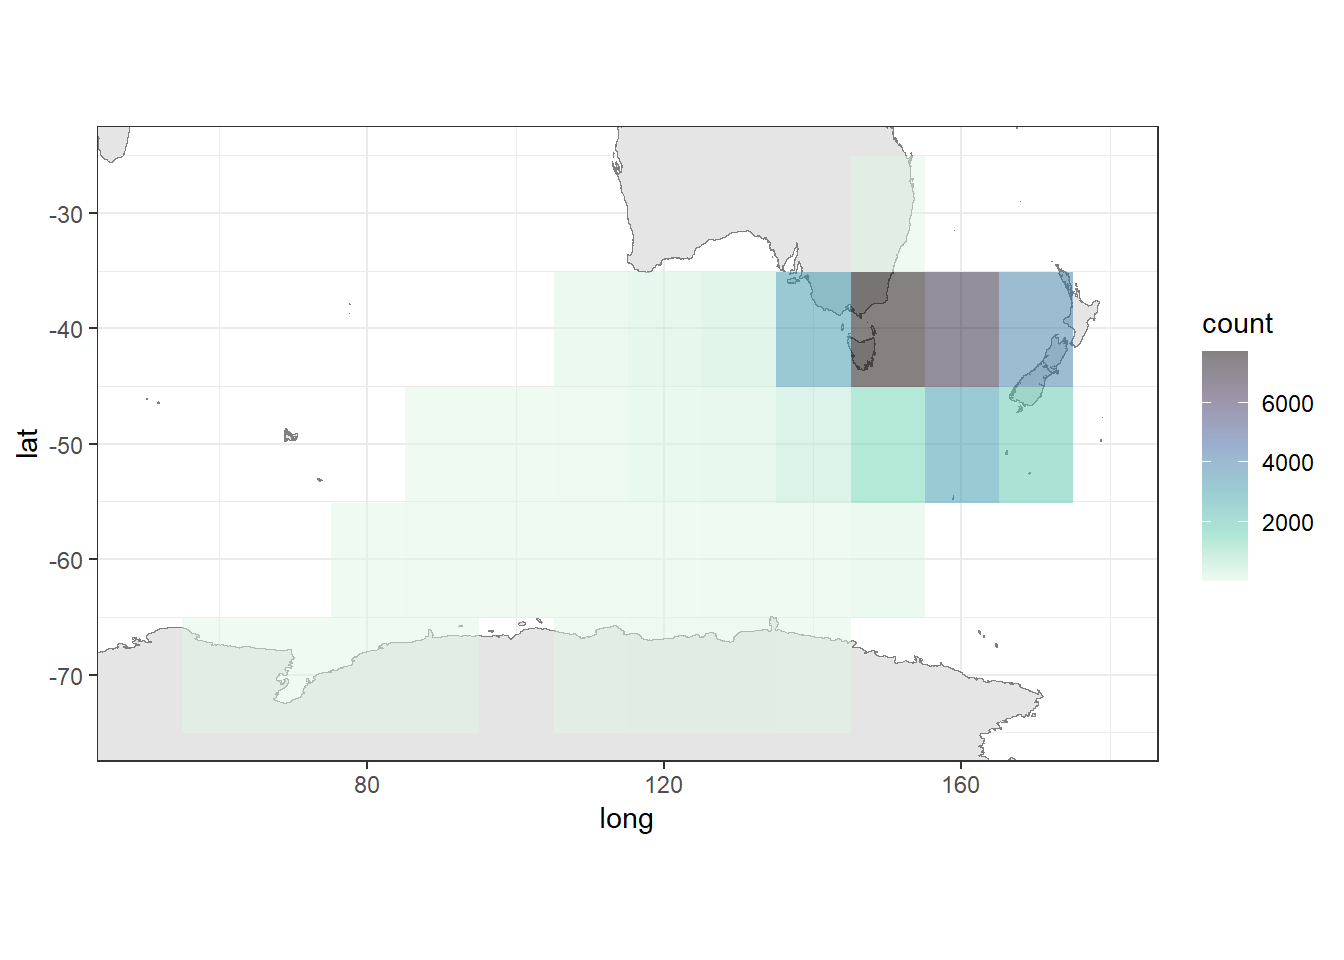
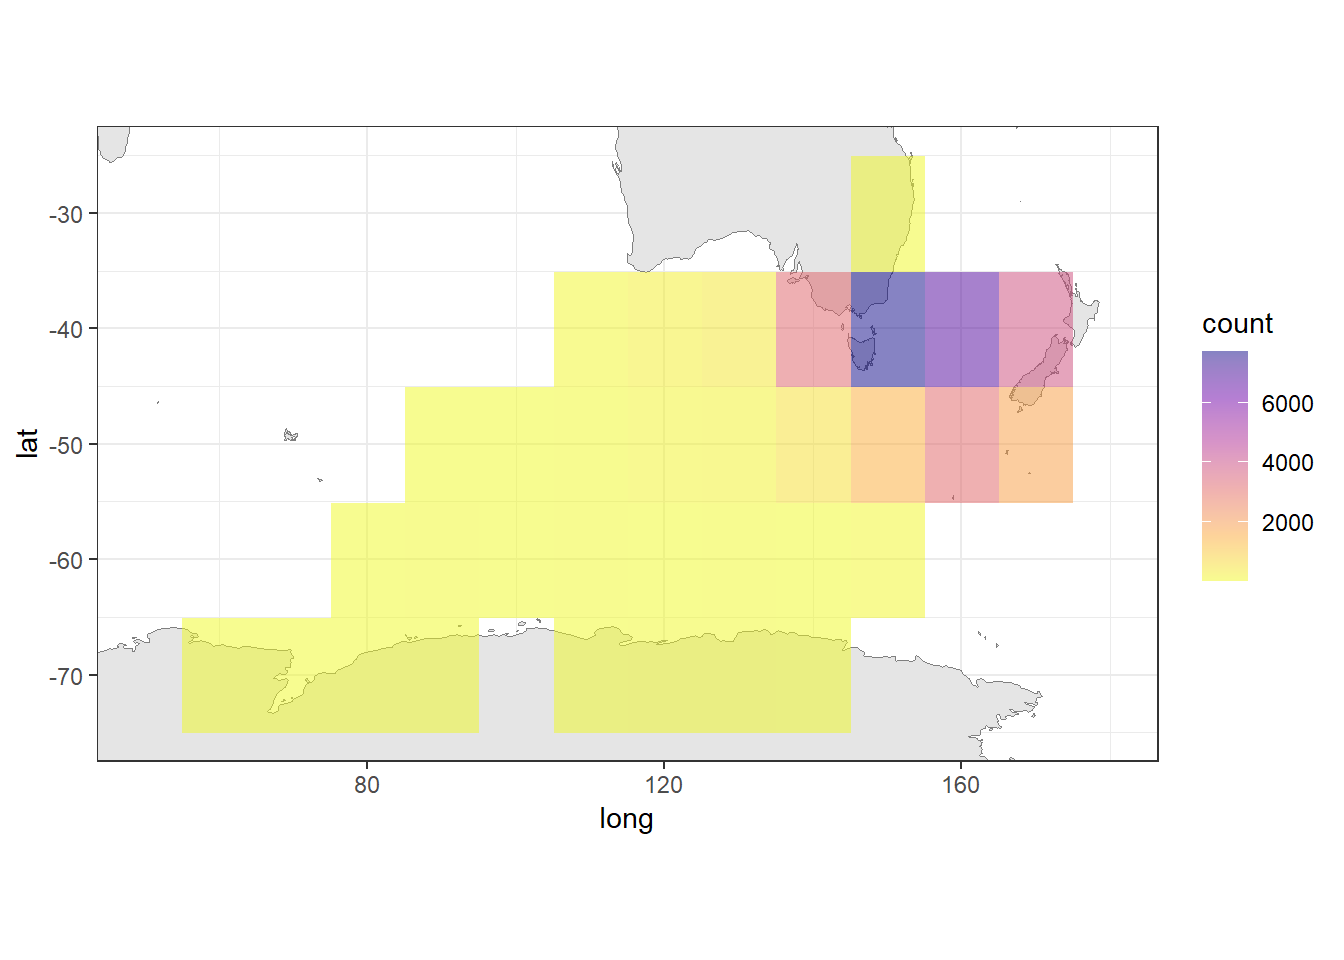
week13

diff --git a/docs/tidytuesday-exercise/tidytuesday-exercise.html b/docs/tidytuesday-exercise/tidytuesday-exercise.html
@@ -416,7 +416,7 @@ e.g.:
 <h4 class="anchored" data-anchor-id="additionally-sightings-have-two-different-time-frames-before-and-after-1983">Additionally sightings have two different time frames (before and after 1983)</h4>
 <div class="cell">
 <div class="code-copy-outer-scaffold"><div class="sourceCode cell-code" id="cb25"><pre class="sourceCode r code-with-copy"><code class="sourceCode r"><span id="cb25-1"><a href="#cb25-1" aria-hidden="true" tabindex="-1"></a><span class="co"># Get world map data</span></span>
-<span id="cb25-2"><a href="#cb25-2" aria-hidden="true" tabindex="-1"></a>world_map <span class="ot">&lt;-</span> <span class="fu">map_data</span>(<span class="st">"worldHires"</span>)</span>
+<span id="cb25-2"><a href="#cb25-2" aria-hidden="true" tabindex="-1"></a>world_map <span class="ot">&lt;-</span> <span class="fu">map_data</span>(<span class="st">"world"</span>)</span>
 <span id="cb25-3"><a href="#cb25-3" aria-hidden="true" tabindex="-1"></a></span>
 <span id="cb25-4"><a href="#cb25-4" aria-hidden="true" tabindex="-1"></a><span class="co">#All sightings of DIO</span></span>
 <span id="cb25-5"><a href="#cb25-5" aria-hidden="true" tabindex="-1"></a>merged_df <span class="sc">%&gt;%</span></span>
@@ -428,7 +428,7 @@ e.g.:
 <span id="cb25-11"><a href="#cb25-11" aria-hidden="true" tabindex="-1"></a>               <span class="fu">aes</span>(<span class="at">x =</span> long, <span class="at">y =</span> lat, <span class="at">group =</span> group), </span>
 <span id="cb25-12"><a href="#cb25-12" aria-hidden="true" tabindex="-1"></a>               <span class="at">fill =</span> <span class="st">"gray90"</span>, <span class="at">color =</span> <span class="st">"gray50"</span>, <span class="at">size =</span> <span class="fl">0.1</span>) <span class="sc">+</span></span>
 <span id="cb25-13"><a href="#cb25-13" aria-hidden="true" tabindex="-1"></a>  <span class="fu">geom_raster</span>(<span class="fu">aes</span>(<span class="at">x =</span> lon_bin, <span class="at">y =</span> lat_bin, <span class="at">fill =</span> count)) <span class="sc">+</span></span>
-<span id="cb25-14"><a href="#cb25-14" aria-hidden="true" tabindex="-1"></a>  <span class="fu">scale_fill_viridis_c</span>(<span class="at">option =</span> <span class="st">"mako"</span>, <span class="at">direction =</span> <span class="sc">-</span><span class="dv">1</span>, <span class="at">alpha =</span> <span class="fl">0.5</span>) <span class="sc">+</span></span>
+<span id="cb25-14"><a href="#cb25-14" aria-hidden="true" tabindex="-1"></a>  <span class="fu">scale_fill_viridis_c</span>(<span class="at">option =</span> <span class="st">"plasma"</span>, <span class="at">direction =</span> <span class="sc">-</span><span class="dv">1</span>, <span class="at">alpha =</span> <span class="fl">0.5</span>) <span class="sc">+</span></span>
 <span id="cb25-15"><a href="#cb25-15" aria-hidden="true" tabindex="-1"></a>  <span class="fu">coord_quickmap</span>(<span class="at">xlim =</span> <span class="fu">c</span>(<span class="dv">50</span>, <span class="dv">180</span>), <span class="at">ylim =</span> <span class="fu">c</span>(<span class="sc">-</span><span class="dv">75</span>, <span class="sc">-</span><span class="dv">25</span>)) <span class="sc">+</span></span>
 <span id="cb25-16"><a href="#cb25-16" aria-hidden="true" tabindex="-1"></a>  <span class="fu">theme_bw</span>()</span></code></pre></div><button title="Copy to Clipboard" class="code-copy-button"><i class="bi"></i></button></div>
 <div class="cell-output cell-output-stderr">
@@ -442,6 +442,8 @@ e.g.:
 </figure>
 </div>
 </div>
+</div>
+<div class="cell">
 <div class="code-copy-outer-scaffold"><div class="sourceCode cell-code" id="cb27"><pre class="sourceCode r code-with-copy"><code class="sourceCode r"><span id="cb27-1"><a href="#cb27-1" aria-hidden="true" tabindex="-1"></a><span class="co">#Sightings before 1983</span></span>
 <span id="cb27-2"><a href="#cb27-2" aria-hidden="true" tabindex="-1"></a>merged_df <span class="sc">%&gt;%</span></span>
 <span id="cb27-3"><a href="#cb27-3" aria-hidden="true" tabindex="-1"></a>  <span class="fu">filter</span>(genus_code <span class="sc">==</span> <span class="st">"DIO"</span>, year <span class="sc">&lt;=</span> <span class="dv">1983</span>) <span class="sc">%&gt;%</span></span>
@@ -452,57 +454,64 @@ e.g.:
 <span id="cb27-8"><a href="#cb27-8" aria-hidden="true" tabindex="-1"></a>               <span class="fu">aes</span>(<span class="at">x =</span> long, <span class="at">y =</span> lat, <span class="at">group =</span> group), </span>
 <span id="cb27-9"><a href="#cb27-9" aria-hidden="true" tabindex="-1"></a>               <span class="at">fill =</span> <span class="st">"gray90"</span>, <span class="at">color =</span> <span class="st">"gray50"</span>, <span class="at">size =</span> <span class="fl">0.1</span>) <span class="sc">+</span></span>
 <span id="cb27-10"><a href="#cb27-10" aria-hidden="true" tabindex="-1"></a>  <span class="fu">geom_raster</span>(<span class="fu">aes</span>(<span class="at">x =</span> lon_bin, <span class="at">y =</span> lat_bin, <span class="at">fill =</span> count)) <span class="sc">+</span></span>
-<span id="cb27-11"><a href="#cb27-11" aria-hidden="true" tabindex="-1"></a>  <span class="fu">scale_fill_viridis_c</span>(<span class="at">option =</span> <span class="st">"mako"</span>, <span class="at">direction =</span> <span class="sc">-</span><span class="dv">1</span>, <span class="at">alpha =</span> <span class="fl">0.5</span>) <span class="sc">+</span></span>
+<span id="cb27-11"><a href="#cb27-11" aria-hidden="true" tabindex="-1"></a>  <span class="fu">scale_fill_viridis_c</span>(<span class="at">option =</span> <span class="st">"plasma"</span>, <span class="at">direction =</span> <span class="sc">-</span><span class="dv">1</span>, <span class="at">alpha =</span> <span class="fl">0.5</span>) <span class="sc">+</span></span>
 <span id="cb27-12"><a href="#cb27-12" aria-hidden="true" tabindex="-1"></a>  <span class="fu">coord_quickmap</span>(<span class="at">xlim =</span> <span class="fu">c</span>(<span class="dv">50</span>, <span class="dv">180</span>), <span class="at">ylim =</span> <span class="fu">c</span>(<span class="sc">-</span><span class="dv">75</span>, <span class="sc">-</span><span class="dv">25</span>)) <span class="sc">+</span> </span>
 <span id="cb27-13"><a href="#cb27-13" aria-hidden="true" tabindex="-1"></a>  <span class="fu">theme_bw</span>()</span></code></pre></div><button title="Copy to Clipboard" class="code-copy-button"><i class="bi"></i></button></div>
 <div class="cell-output-display">
 <div>
 <figure class="figure">
-<p><img src="tidytuesday-exercise_files/figure-html/unnamed-chunk-6-2.png" class="img-fluid figure-img" width="672"></p>
+<p><img src="tidytuesday-exercise_files/figure-html/unnamed-chunk-7-1.png" class="img-fluid figure-img" width="672"></p>
 </figure>
 </div>
 </div>
-<div class="code-copy-outer-scaffold"><div class="sourceCode cell-code" id="cb28"><pre class="sourceCode r code-with-copy"><code class="sourceCode r"><span id="cb28-1"><a href="#cb28-1" aria-hidden="true" tabindex="-1"></a><span class="co">#Sightings before 1983 per season</span></span>
+<div class="code-copy-outer-scaffold"><div class="sourceCode cell-code" id="cb28"><pre class="sourceCode r code-with-copy"><code class="sourceCode r"><span id="cb28-1"><a href="#cb28-1" aria-hidden="true" tabindex="-1"></a><span class="co">#Sightings after 1983</span></span>
 <span id="cb28-2"><a href="#cb28-2" aria-hidden="true" tabindex="-1"></a>merged_df <span class="sc">%&gt;%</span></span>
-<span id="cb28-3"><a href="#cb28-3" aria-hidden="true" tabindex="-1"></a>  <span class="fu">filter</span>(genus_code <span class="sc">==</span> <span class="st">"DIO"</span>, year <span class="sc">&lt;=</span> <span class="dv">1983</span>) <span class="sc">%&gt;%</span></span>
-<span id="cb28-4"><a href="#cb28-4" aria-hidden="true" tabindex="-1"></a>  <span class="fu">group_by</span>(lon_bin, lat_bin, season) <span class="sc">%&gt;%</span></span>
+<span id="cb28-3"><a href="#cb28-3" aria-hidden="true" tabindex="-1"></a>  <span class="fu">filter</span>(genus_code <span class="sc">==</span> <span class="st">"DIO"</span>, year <span class="sc">&gt;</span> <span class="dv">1983</span>) <span class="sc">%&gt;%</span></span>
+<span id="cb28-4"><a href="#cb28-4" aria-hidden="true" tabindex="-1"></a>  <span class="fu">group_by</span>(lon_bin, lat_bin) <span class="sc">%&gt;%</span></span>
 <span id="cb28-5"><a href="#cb28-5" aria-hidden="true" tabindex="-1"></a>  <span class="fu">summarise</span>(<span class="at">count =</span> <span class="fu">sum</span>(count, <span class="at">na.rm =</span> <span class="cn">TRUE</span>), <span class="at">.groups =</span> <span class="st">"drop"</span>) <span class="sc">%&gt;%</span></span>
 <span id="cb28-6"><a href="#cb28-6" aria-hidden="true" tabindex="-1"></a>  <span class="fu">ggplot</span>() <span class="sc">+</span></span>
 <span id="cb28-7"><a href="#cb28-7" aria-hidden="true" tabindex="-1"></a>  <span class="fu">geom_polygon</span>(<span class="at">data =</span> world_map, </span>
 <span id="cb28-8"><a href="#cb28-8" aria-hidden="true" tabindex="-1"></a>               <span class="fu">aes</span>(<span class="at">x =</span> long, <span class="at">y =</span> lat, <span class="at">group =</span> group), </span>
 <span id="cb28-9"><a href="#cb28-9" aria-hidden="true" tabindex="-1"></a>               <span class="at">fill =</span> <span class="st">"gray90"</span>, <span class="at">color =</span> <span class="st">"gray50"</span>, <span class="at">size =</span> <span class="fl">0.1</span>) <span class="sc">+</span></span>
 <span id="cb28-10"><a href="#cb28-10" aria-hidden="true" tabindex="-1"></a>  <span class="fu">geom_raster</span>(<span class="fu">aes</span>(<span class="at">x =</span> lon_bin, <span class="at">y =</span> lat_bin, <span class="at">fill =</span> count)) <span class="sc">+</span></span>
-<span id="cb28-11"><a href="#cb28-11" aria-hidden="true" tabindex="-1"></a>  <span class="fu">scale_fill_viridis_c</span>(<span class="at">option =</span> <span class="st">"mako"</span>, <span class="at">direction =</span> <span class="sc">-</span><span class="dv">1</span>, <span class="at">alpha =</span> <span class="fl">0.5</span>) <span class="sc">+</span></span>
+<span id="cb28-11"><a href="#cb28-11" aria-hidden="true" tabindex="-1"></a>  <span class="fu">scale_fill_viridis_c</span>(<span class="at">option =</span> <span class="st">"plasma"</span>, <span class="at">direction =</span> <span class="sc">-</span><span class="dv">1</span>, <span class="at">alpha =</span> <span class="fl">0.5</span>) <span class="sc">+</span></span>
 <span id="cb28-12"><a href="#cb28-12" aria-hidden="true" tabindex="-1"></a>  <span class="fu">coord_quickmap</span>(<span class="at">xlim =</span> <span class="fu">c</span>(<span class="dv">50</span>, <span class="dv">180</span>), <span class="at">ylim =</span> <span class="fu">c</span>(<span class="sc">-</span><span class="dv">75</span>, <span class="sc">-</span><span class="dv">25</span>)) <span class="sc">+</span> </span>
-<span id="cb28-13"><a href="#cb28-13" aria-hidden="true" tabindex="-1"></a>  <span class="fu">theme_bw</span>() <span class="sc">+</span></span>
-<span id="cb28-14"><a href="#cb28-14" aria-hidden="true" tabindex="-1"></a>  <span class="fu">facet_wrap</span>(<span class="sc">~</span>season)</span></code></pre></div><button title="Copy to Clipboard" class="code-copy-button"><i class="bi"></i></button></div>
+<span id="cb28-13"><a href="#cb28-13" aria-hidden="true" tabindex="-1"></a>  <span class="fu">theme_bw</span>()</span></code></pre></div><button title="Copy to Clipboard" class="code-copy-button"><i class="bi"></i></button></div>
 <div class="cell-output-display">
 <div>
 <figure class="figure">
-<p><img src="tidytuesday-exercise_files/figure-html/unnamed-chunk-6-3.png" class="img-fluid figure-img" width="672"></p>
+<p><img src="tidytuesday-exercise_files/figure-html/unnamed-chunk-7-2.png" class="img-fluid figure-img" width="672"></p>
 </figure>
 </div>
 </div>
-<div class="code-copy-outer-scaffold"><div class="sourceCode cell-code" id="cb29"><pre class="sourceCode r code-with-copy"><code class="sourceCode r"><span id="cb29-1"><a href="#cb29-1" aria-hidden="true" tabindex="-1"></a><span class="co">#Sightings after 1983</span></span>
+</div>
+</section>
+<section id="ok-from-this-information-i-can-see-there-are-trends-from-each-season-in-the-way-the-birds-are-spread.-it-seems-like-the-two-different-groups-before-and-after-1983-have-different-trends-and-within-those-groups-season-seems-to-be-important-and-i-will-look-mopre-into-it." class="level4">
+<h4 class="anchored" data-anchor-id="ok-from-this-information-i-can-see-there-are-trends-from-each-season-in-the-way-the-birds-are-spread.-it-seems-like-the-two-different-groups-before-and-after-1983-have-different-trends-and-within-those-groups-season-seems-to-be-important-and-i-will-look-mopre-into-it.">Ok from this information, I can see there are trends from each season in the way the birds are spread. It seems like the two different groups (before and after 1983) have different trends and within those groups season seems to be important and I will look mopre into it.</h4>
+<div class="cell">
+<div class="code-copy-outer-scaffold"><div class="sourceCode cell-code" id="cb29"><pre class="sourceCode r code-with-copy"><code class="sourceCode r"><span id="cb29-1"><a href="#cb29-1" aria-hidden="true" tabindex="-1"></a><span class="co">#Sightings before 1983 per season</span></span>
 <span id="cb29-2"><a href="#cb29-2" aria-hidden="true" tabindex="-1"></a>merged_df <span class="sc">%&gt;%</span></span>
-<span id="cb29-3"><a href="#cb29-3" aria-hidden="true" tabindex="-1"></a>  <span class="fu">filter</span>(genus_code <span class="sc">==</span> <span class="st">"DIO"</span>, year <span class="sc">&gt;</span> <span class="dv">1983</span>) <span class="sc">%&gt;%</span></span>
-<span id="cb29-4"><a href="#cb29-4" aria-hidden="true" tabindex="-1"></a>  <span class="fu">group_by</span>(lon_bin, lat_bin) <span class="sc">%&gt;%</span></span>
+<span id="cb29-3"><a href="#cb29-3" aria-hidden="true" tabindex="-1"></a>  <span class="fu">filter</span>(genus_code <span class="sc">==</span> <span class="st">"DIO"</span>, year <span class="sc">&lt;=</span> <span class="dv">1983</span>) <span class="sc">%&gt;%</span></span>
+<span id="cb29-4"><a href="#cb29-4" aria-hidden="true" tabindex="-1"></a>  <span class="fu">group_by</span>(lon_bin, lat_bin, season) <span class="sc">%&gt;%</span></span>
 <span id="cb29-5"><a href="#cb29-5" aria-hidden="true" tabindex="-1"></a>  <span class="fu">summarise</span>(<span class="at">count =</span> <span class="fu">sum</span>(count, <span class="at">na.rm =</span> <span class="cn">TRUE</span>), <span class="at">.groups =</span> <span class="st">"drop"</span>) <span class="sc">%&gt;%</span></span>
 <span id="cb29-6"><a href="#cb29-6" aria-hidden="true" tabindex="-1"></a>  <span class="fu">ggplot</span>() <span class="sc">+</span></span>
 <span id="cb29-7"><a href="#cb29-7" aria-hidden="true" tabindex="-1"></a>  <span class="fu">geom_polygon</span>(<span class="at">data =</span> world_map, </span>
 <span id="cb29-8"><a href="#cb29-8" aria-hidden="true" tabindex="-1"></a>               <span class="fu">aes</span>(<span class="at">x =</span> long, <span class="at">y =</span> lat, <span class="at">group =</span> group), </span>
 <span id="cb29-9"><a href="#cb29-9" aria-hidden="true" tabindex="-1"></a>               <span class="at">fill =</span> <span class="st">"gray90"</span>, <span class="at">color =</span> <span class="st">"gray50"</span>, <span class="at">size =</span> <span class="fl">0.1</span>) <span class="sc">+</span></span>
 <span id="cb29-10"><a href="#cb29-10" aria-hidden="true" tabindex="-1"></a>  <span class="fu">geom_raster</span>(<span class="fu">aes</span>(<span class="at">x =</span> lon_bin, <span class="at">y =</span> lat_bin, <span class="at">fill =</span> count)) <span class="sc">+</span></span>
-<span id="cb29-11"><a href="#cb29-11" aria-hidden="true" tabindex="-1"></a>  <span class="fu">scale_fill_viridis_c</span>(<span class="at">option =</span> <span class="st">"mako"</span>, <span class="at">direction =</span> <span class="sc">-</span><span class="dv">1</span>, <span class="at">alpha =</span> <span class="fl">0.5</span>) <span class="sc">+</span></span>
+<span id="cb29-11"><a href="#cb29-11" aria-hidden="true" tabindex="-1"></a>  <span class="fu">scale_fill_viridis_c</span>(<span class="at">option =</span> <span class="st">"plasma"</span>, <span class="at">direction =</span> <span class="sc">-</span><span class="dv">1</span>, <span class="at">alpha =</span> <span class="fl">0.5</span>) <span class="sc">+</span></span>
 <span id="cb29-12"><a href="#cb29-12" aria-hidden="true" tabindex="-1"></a>  <span class="fu">coord_quickmap</span>(<span class="at">xlim =</span> <span class="fu">c</span>(<span class="dv">50</span>, <span class="dv">180</span>), <span class="at">ylim =</span> <span class="fu">c</span>(<span class="sc">-</span><span class="dv">75</span>, <span class="sc">-</span><span class="dv">25</span>)) <span class="sc">+</span> </span>
-<span id="cb29-13"><a href="#cb29-13" aria-hidden="true" tabindex="-1"></a>  <span class="fu">theme_bw</span>()</span></code></pre></div><button title="Copy to Clipboard" class="code-copy-button"><i class="bi"></i></button></div>
+<span id="cb29-13"><a href="#cb29-13" aria-hidden="true" tabindex="-1"></a>  <span class="fu">theme_bw</span>() <span class="sc">+</span></span>
+<span id="cb29-14"><a href="#cb29-14" aria-hidden="true" tabindex="-1"></a>  <span class="fu">facet_wrap</span>(<span class="sc">~</span>season)</span></code></pre></div><button title="Copy to Clipboard" class="code-copy-button"><i class="bi"></i></button></div>
 <div class="cell-output-display">
 <div>
 <figure class="figure">
-<p><img src="tidytuesday-exercise_files/figure-html/unnamed-chunk-6-4.png" class="img-fluid figure-img" width="672"></p>
+<p><img src="tidytuesday-exercise_files/figure-html/unnamed-chunk-8-1.png" class="img-fluid figure-img" width="672"></p>
 </figure>
 </div>
 </div>
+</div>
+<div class="cell">
 <div class="code-copy-outer-scaffold"><div class="sourceCode cell-code" id="cb30"><pre class="sourceCode r code-with-copy"><code class="sourceCode r"><span id="cb30-1"><a href="#cb30-1" aria-hidden="true" tabindex="-1"></a><span class="co">#Sightings after 1983 per season</span></span>
 <span id="cb30-2"><a href="#cb30-2" aria-hidden="true" tabindex="-1"></a>merged_df <span class="sc">%&gt;%</span></span>
 <span id="cb30-3"><a href="#cb30-3" aria-hidden="true" tabindex="-1"></a>  <span class="fu">filter</span>(genus_code <span class="sc">==</span> <span class="st">"DIO"</span>, year <span class="sc">&gt;</span> <span class="dv">1983</span>) <span class="sc">%&gt;%</span></span>
@@ -513,21 +522,18 @@ e.g.:
 <span id="cb30-8"><a href="#cb30-8" aria-hidden="true" tabindex="-1"></a>               <span class="fu">aes</span>(<span class="at">x =</span> long, <span class="at">y =</span> lat, <span class="at">group =</span> group), </span>
 <span id="cb30-9"><a href="#cb30-9" aria-hidden="true" tabindex="-1"></a>               <span class="at">fill =</span> <span class="st">"gray90"</span>, <span class="at">color =</span> <span class="st">"gray50"</span>, <span class="at">size =</span> <span class="fl">0.1</span>) <span class="sc">+</span></span>
 <span id="cb30-10"><a href="#cb30-10" aria-hidden="true" tabindex="-1"></a>  <span class="fu">geom_raster</span>(<span class="fu">aes</span>(<span class="at">x =</span> lon_bin, <span class="at">y =</span> lat_bin, <span class="at">fill =</span> count)) <span class="sc">+</span></span>
-<span id="cb30-11"><a href="#cb30-11" aria-hidden="true" tabindex="-1"></a>  <span class="fu">scale_fill_viridis_c</span>(<span class="at">option =</span> <span class="st">"mako"</span>, <span class="at">direction =</span> <span class="sc">-</span><span class="dv">1</span>, <span class="at">alpha =</span> <span class="fl">0.5</span>) <span class="sc">+</span></span>
+<span id="cb30-11"><a href="#cb30-11" aria-hidden="true" tabindex="-1"></a>  <span class="fu">scale_fill_viridis_c</span>(<span class="at">option =</span> <span class="st">"plasma"</span>, <span class="at">direction =</span> <span class="sc">-</span><span class="dv">1</span>, <span class="at">alpha =</span> <span class="fl">0.5</span>) <span class="sc">+</span></span>
 <span id="cb30-12"><a href="#cb30-12" aria-hidden="true" tabindex="-1"></a>  <span class="fu">coord_quickmap</span>(<span class="at">xlim =</span> <span class="fu">c</span>(<span class="dv">50</span>, <span class="dv">180</span>), <span class="at">ylim =</span> <span class="fu">c</span>(<span class="sc">-</span><span class="dv">75</span>, <span class="sc">-</span><span class="dv">25</span>)) <span class="sc">+</span></span>
 <span id="cb30-13"><a href="#cb30-13" aria-hidden="true" tabindex="-1"></a>  <span class="fu">theme_bw</span>() <span class="sc">+</span></span>
 <span id="cb30-14"><a href="#cb30-14" aria-hidden="true" tabindex="-1"></a>  <span class="fu">facet_wrap</span>(<span class="sc">~</span>season)</span></code></pre></div><button title="Copy to Clipboard" class="code-copy-button"><i class="bi"></i></button></div>
 <div class="cell-output-display">
 <div>
 <figure class="figure">
-<p><img src="tidytuesday-exercise_files/figure-html/unnamed-chunk-6-5.png" class="img-fluid figure-img" width="672"></p>
+<p><img src="tidytuesday-exercise_files/figure-html/unnamed-chunk-9-1.png" class="img-fluid figure-img" width="672"></p>
 </figure>
 </div>
 </div>
 </div>
-</section>
-<section id="ok-from-this-information-i-can-see-there-are-trends-from-each-season-in-the-way-the-birds-are-spread.-it-seems-like-the-two-different-groups-before-and-after-1983-have-different-trends-and-within-those-groups-season-seems-to-be-important-and-i-will-look-mopre-into-it." class="level4">
-<h4 class="anchored" data-anchor-id="ok-from-this-information-i-can-see-there-are-trends-from-each-season-in-the-way-the-birds-are-spread.-it-seems-like-the-two-different-groups-before-and-after-1983-have-different-trends-and-within-those-groups-season-seems-to-be-important-and-i-will-look-mopre-into-it.">Ok from this information, I can see there are trends from each season in the way the birds are spread. It seems like the two different groups (before and after 1983) have different trends and within those groups season seems to be important and I will look mopre into it.</h4>
 
 
 </section>

diff --git a/docs/aboutme.html b/docs/aboutme.html
@@ -123,6 +123,14 @@ ul.task-list li input[type="checkbox"] {
     <a class="dropdown-item" href="./fitting-exercise/fitting-exercise.html">
  <span class="dropdown-text">Fitting exercise</span></a>
   </li>  
+        <li>
+    <a class="dropdown-item" href="./ml-models-exercise/ml-models-exercise.html">
+ <span class="dropdown-text">ML exercise 1</span></a>
+  </li>  
+        <li>
+    <a class="dropdown-item" href="./tidytuesday-exercise/tidytuesday-exercise.html">
+ <span class="dropdown-text">TidyTuesday</span></a>
+  </li>  
     </ul>
   </li>
 </ul>

diff --git a/docs/index.html b/docs/index.html
@@ -127,6 +127,10 @@ ul.task-list li input[type="checkbox"] {
     <a class="dropdown-item" href="./ml-models-exercise/ml-models-exercise.html">
  <span class="dropdown-text">ML exercise 1</span></a>
   </li>  
+        <li>
+    <a class="dropdown-item" href="./tidytuesday-exercise/tidytuesday-exercise.html">
+ <span class="dropdown-text">TidyTuesday</span></a>
+  </li>  
     </ul>
   </li>
 </ul>
